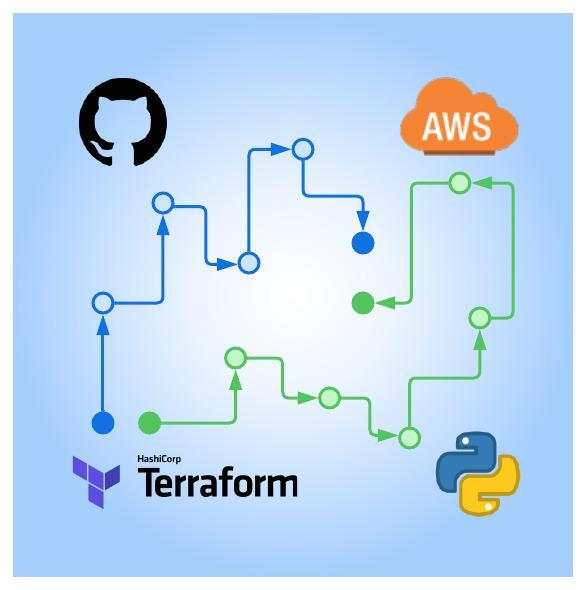
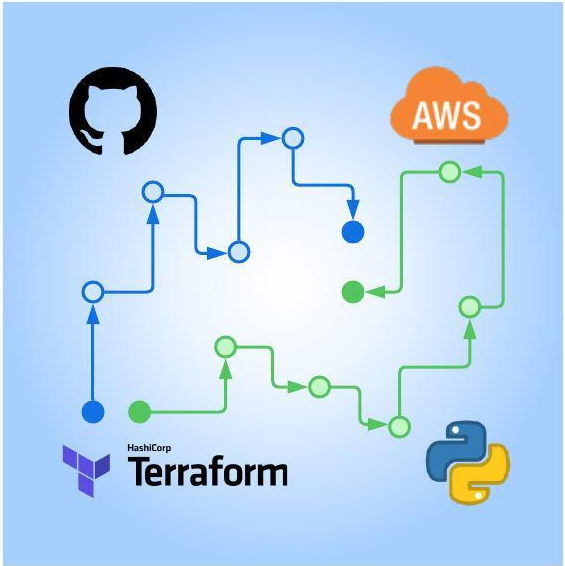
Added D2OS images

Changed region(s): [[0.0, 0.0, 1.0, 1.0], [0.0903, 0.1201, 0.6619, 0.9011], [0.4814, 0.0901, 0.9027, 0.9011]]

diff --git a/_projects/001-dynamo-os.md b/_projects/001-dynamo-os.md
@@ -8,7 +8,7 @@ features:
   - a DynamoDB change stream as the event source
   - an AWS Lambda to process the record changes
   - an OpenSearch domain
-featured_image: '/images/projects/dynamo-os-landscape.jpeg'
+featured_image: '/images/projects/dynamo-os-square.jpeg'
 ---
 
 ![](/images/projects/dynamo-os-landscape.jpeg)
